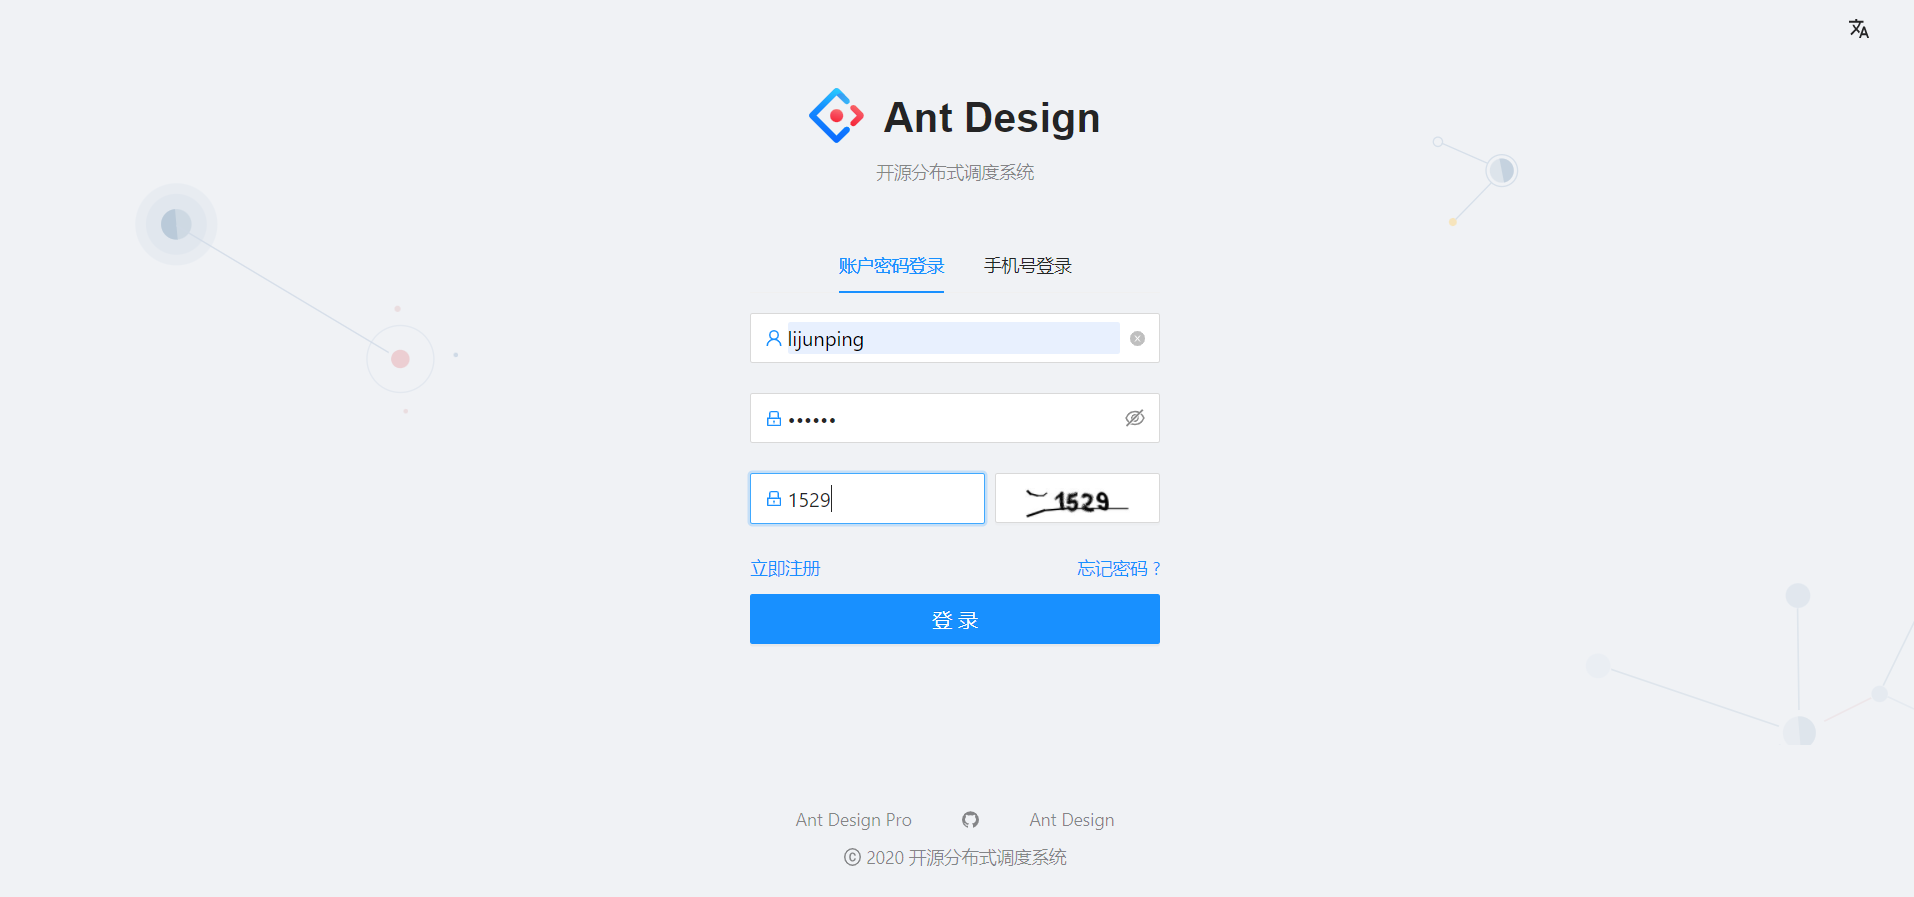
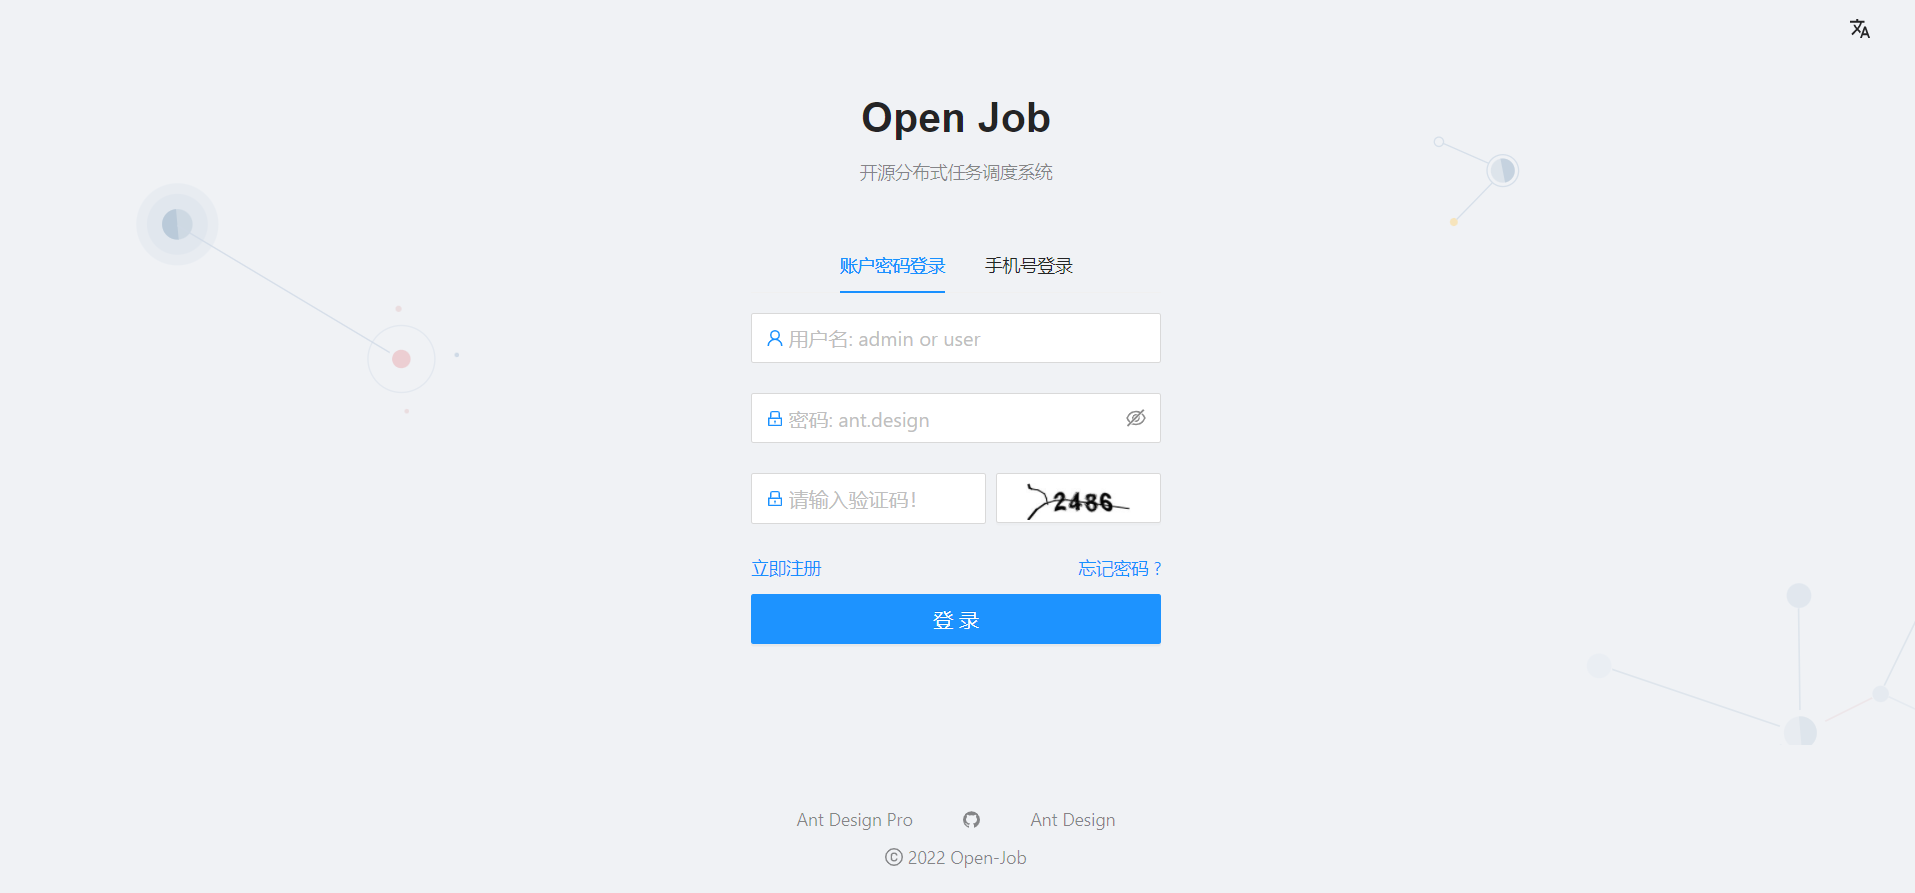
feat：readme

diff --git a/docs/md/open-job/接口文档.md b/docs/md/open-job/接口文档.md
@@ -220,3 +220,44 @@ Authorization: Bearer xxxxxxxxxxxxxxxxxxxxxxxxxx
 | createTime | date    | 创建时间 |
 | updateTime | date    | 更新时间 |
 | success       | boolean | 是否成功             |
+
+## **任务相关**
+
+### **获取验证码**
+
+#### **简要描述**
+
+根据参数不同可支持获取图片验证码，短信验证码，
+
+#### **请求 URL**
+
+- http://x.x.x.x:8080/validate/code/
+
+#### **请求方式**
+
+- POST
+
+#### **请求示例**
+
+```json
+{
+    "type": "image", 
+    "deviceId": "80c71a92-a2e6-4320-3bbe-38cfd6b19ab4"
+}
+```
+
+#### **请求参数**
+
+|   参数名    |  类型  | 必选 | 说明               |
+| :---------: | :----: | ---- | :----------------- |
+|   type    | string | 是   | 验证码类型，可选值：sms，image，scan         |
+|   mobile    | string | 否   | 当 type 为 sms 的时候需要传入该字段            |
+|  deviceId   |  string   | 是   | 客户端会话唯一标识 |
+
+#### **返回示例**
+
+图片二进制流或短信验证码
+
+#### **返回参数**
+
+图片二进制流或短信验证码

diff --git a/docs/md/open-job-admin/使用说明.md b/docs/md/open-job-admin/使用说明.md
@@ -1,0 +1,29 @@
+# **使用说明**
+
+## **登录页面**
+
+![登录页面](../../assets/img/open-job-admin/login.png)
+
+## **欢迎页面**
+
+![欢迎页面](../../assets/img/open-job-admin/welcome.png)
+
+## **任务管理页面**
+
+![任务管理页面](../../assets/img/open-job-admin/task.png)
+
+## **创建任务页面**
+
+![创建任务页面](../../assets/img/open-job-admin/create_task.png)
+
+## **执行器管理页面**
+
+![执行器管理页面](../../assets/img/open-job-admin/executor.png)
+
+## **用户管理页面**
+
+![用户管理页面](../../assets/img/open-job-admin/user.png)
+
+## **任务监控及运行报表页面**
+
+后续上传

diff --git a/docs/README.md b/docs/README.md
@@ -117,3 +117,9 @@ public class JobHandlerTwo implements JobHandler {
 ## 🎉收尾
 
 该分布式任务调度系统，是从本人之前做的一个系统中抽离出来的，开源不易，欢迎 star
+
+- **加群交流**
+  ![Open-Job开源社区群](assets/img/wechat/wechat_group.png)
+
+- **加我微信**
+  ![我的微信](assets/img/wechat/wechat.png)

diff --git a/docs/md/open-job-admin/项目介绍.md b/docs/md/open-job-admin/项目介绍.md
@@ -6,4 +6,4 @@ https://github.com/lijunping365/Open-Job-Admin
 
 ## 项目模块说明
 
-![](../../assets/img/open-job-admin/login.png)
+![项目模块图片](../../assets/img/open-job-admin/projectHome.png)
